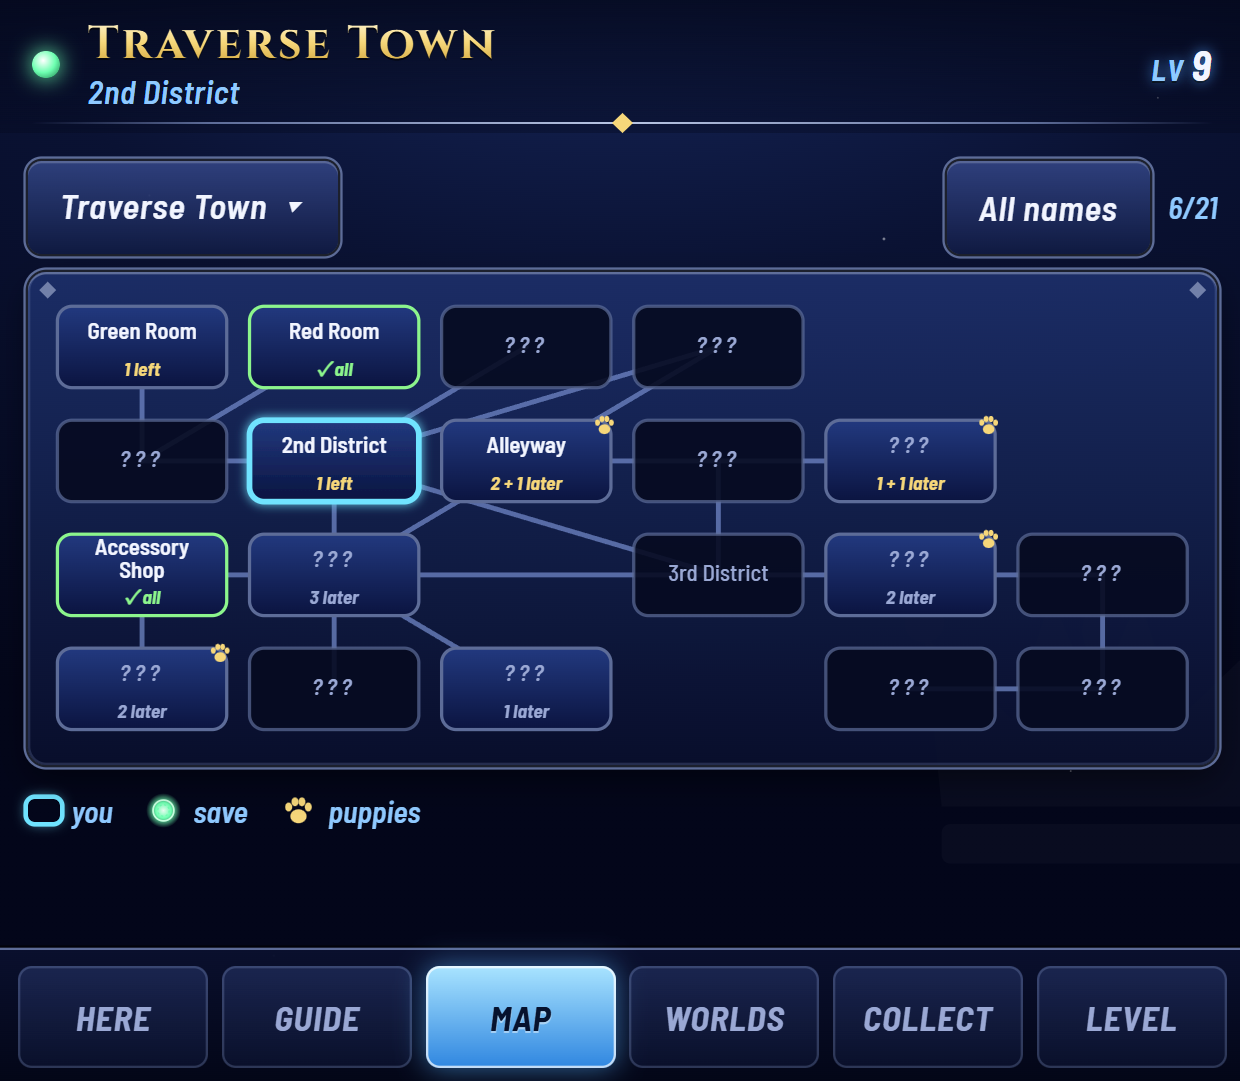
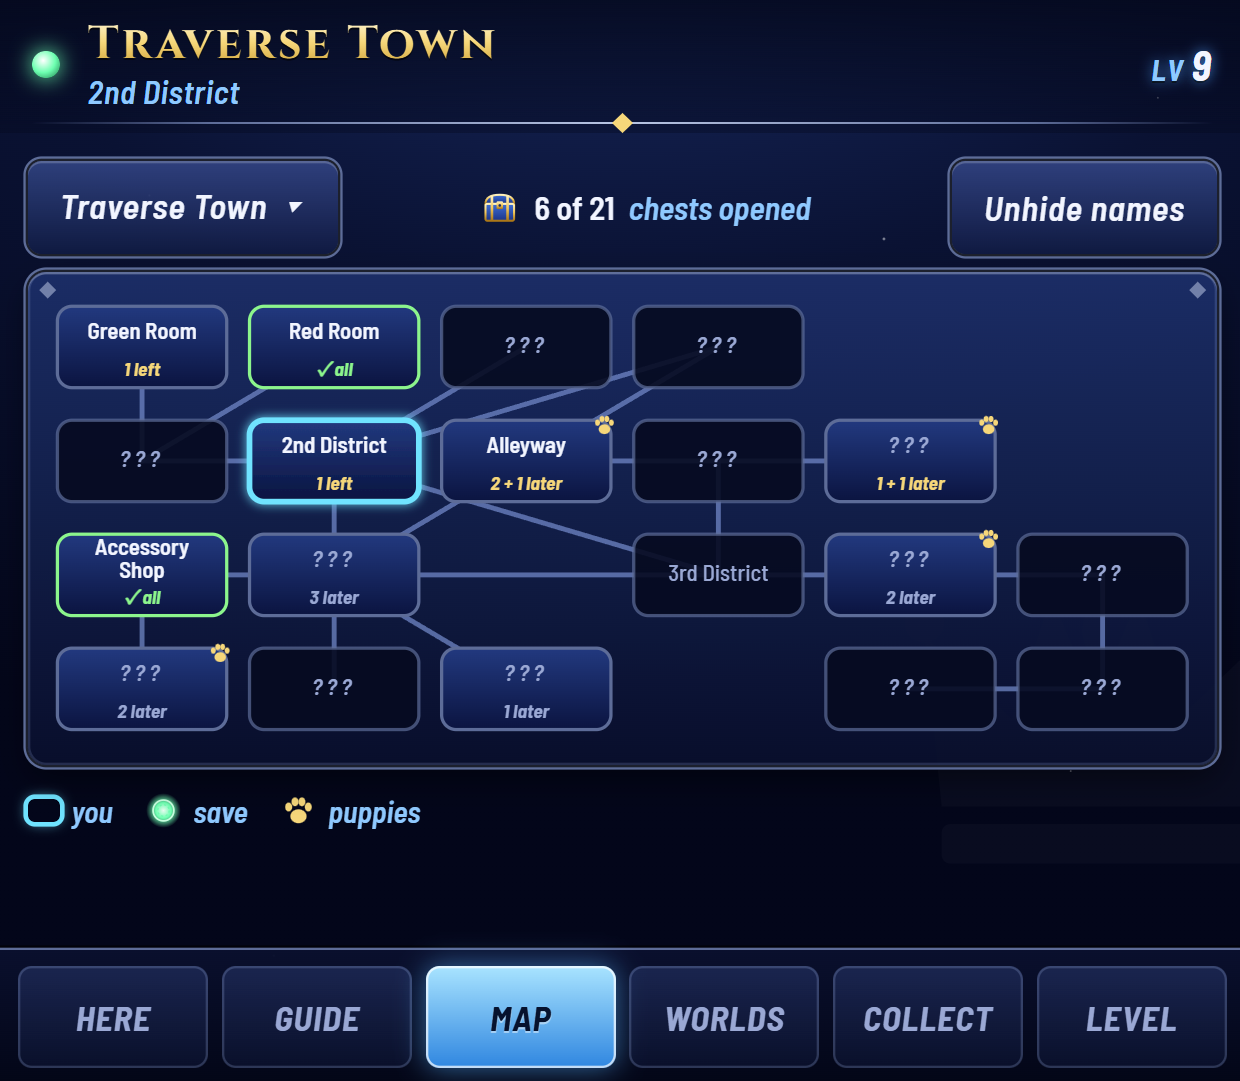
Map: Unhide names button; clear chest count in the middle of the header

Changed region(s): [[0.7355, 0.1221, 1.0, 0.2442], [0.3677, 0.1832, 0.6742, 0.2137]]

diff --git a/companion/app.js b/companion/app.js
@@ -222,8 +222,8 @@
     el.innerHTML =
       `<div class="row" style="margin-bottom:8px"><button class="chip" id="pickMapWorld">${esc(displayWorld(world))} ▾</button>` +
       (mapWorld && mapWorld !== sum.world && L.MAPS[sum.world] ? `<button class="chip" id="mapHere">Current world</button>` : "") +
-      `<span class="grow"></span><button class="chip ${allNames ? "on" : ""}" id="allNames">All names</button>` +
-      `<span class="sub">${sum.worlds[world].got}/${sum.worlds[world].total}</span></div>` +
+      `<span class="grow"></span><span class="map-count">${icon("ico-chest", "")}<b>${sum.worlds[world].got} of ${sum.worlds[world].total}</b> chests opened</span>` +
+      `<span class="grow"></span><button class="chip ${allNames ? "on" : ""}" id="allNames">${allNames ? "Hide names" : "Unhide names"}</button></div>` +
       `<div class="card mapcard">${mapSvg(world, n && n.id, goal && goal.where)}</div>` +
       `<div class="legend"><span><i class="lg here"></i>you</span>${goal && goal.where ? '<span><i class="lg goal"></i>next step</span>' : ""}<span>${icon("ico-save", "")}save</span>` +
       `<span>${icon("ico-paw", "")}puppies</span>${anyShut ? `<span>${icon("ico-lock", "")}can't go in yet</span>` : ""}` +

diff --git a/companion/theme.css b/companion/theme.css
@@ -256,6 +256,9 @@ svg.map .node { cursor: pointer; }
 svg.map .node.shut { opacity: .45; }
 svg.map .node.unknown .nl { fill: var(--muted); font-style: italic; letter-spacing: .2em; }
 svg.map .node.later .nc { fill: var(--muted); }
+.map-count { display: inline-flex; align-items: center; gap: 6px; font: italic 600 14px var(--ui); color: var(--sub); white-space: nowrap; }
+.map-count svg { width: 18px; height: 18px; }
+.map-count b { color: var(--text); font-style: normal; }
 .legend { display: flex; flex-wrap: wrap; gap: 14px; margin-top: 8px; align-items: center; color: var(--sub); font: italic 600 13px var(--ui); }
 .legend span { display: inline-flex; align-items: center; gap: 5px; }
 .legend svg { width: 16px; height: 16px; }
